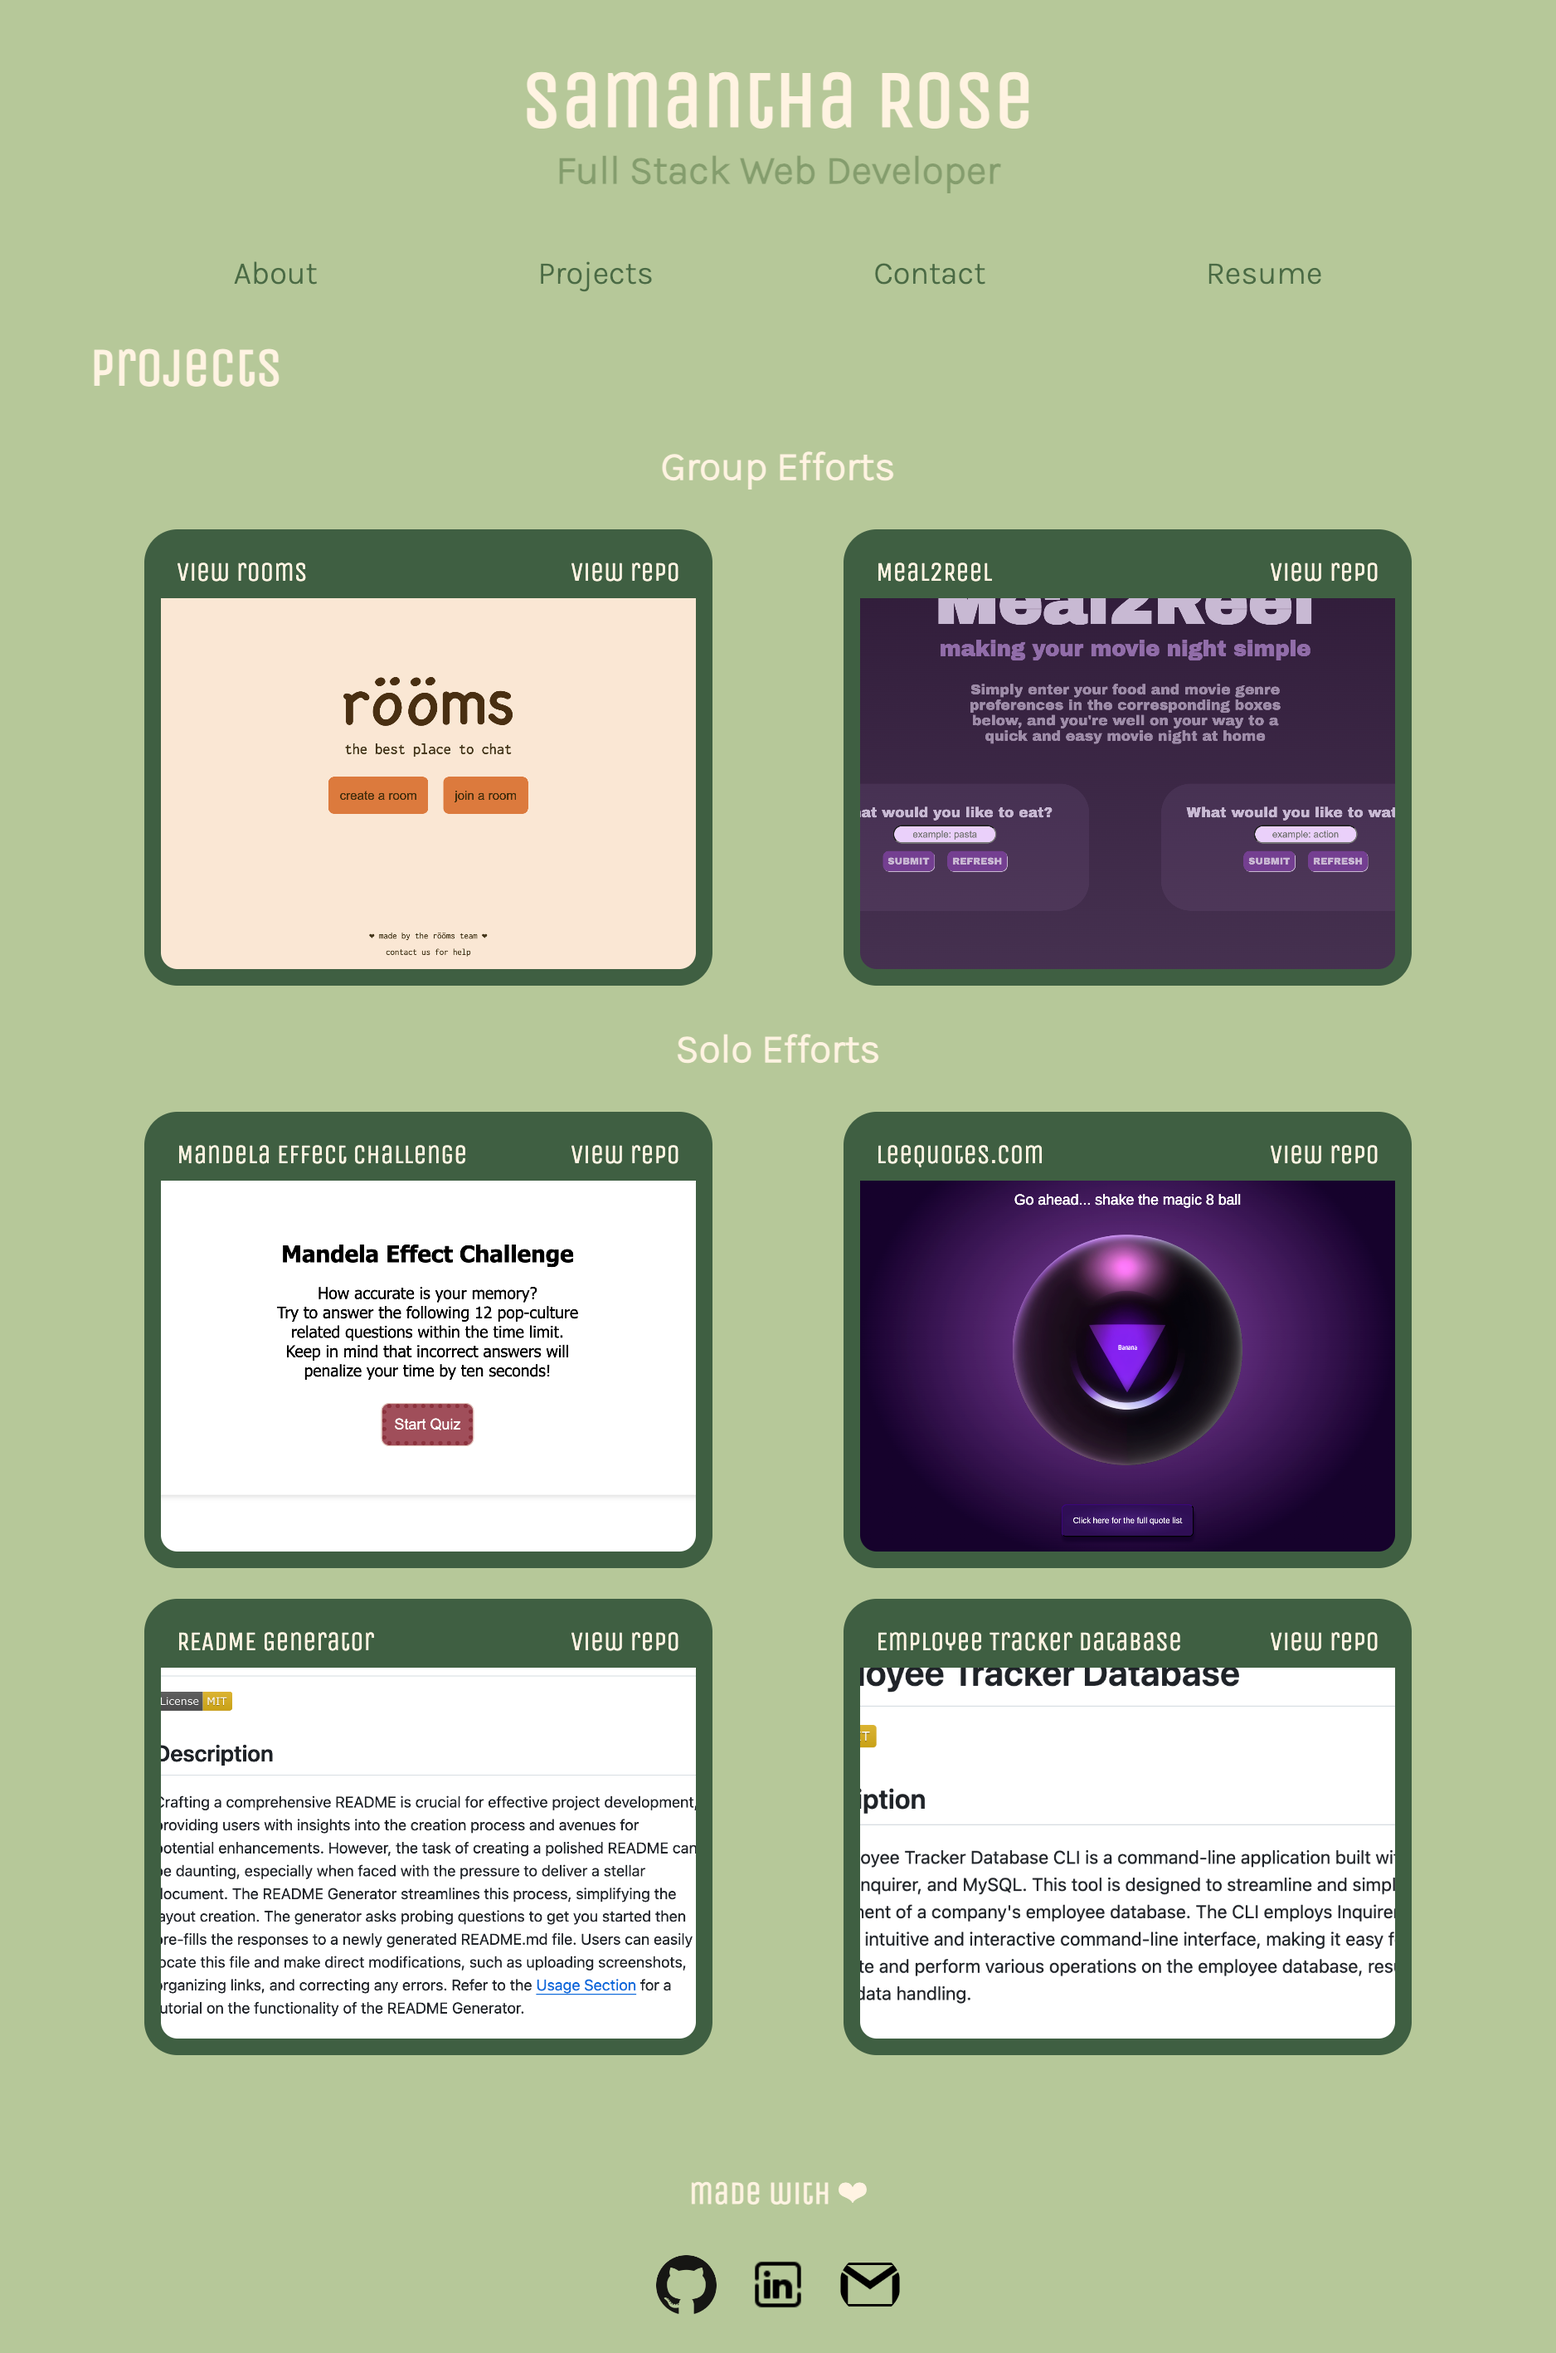
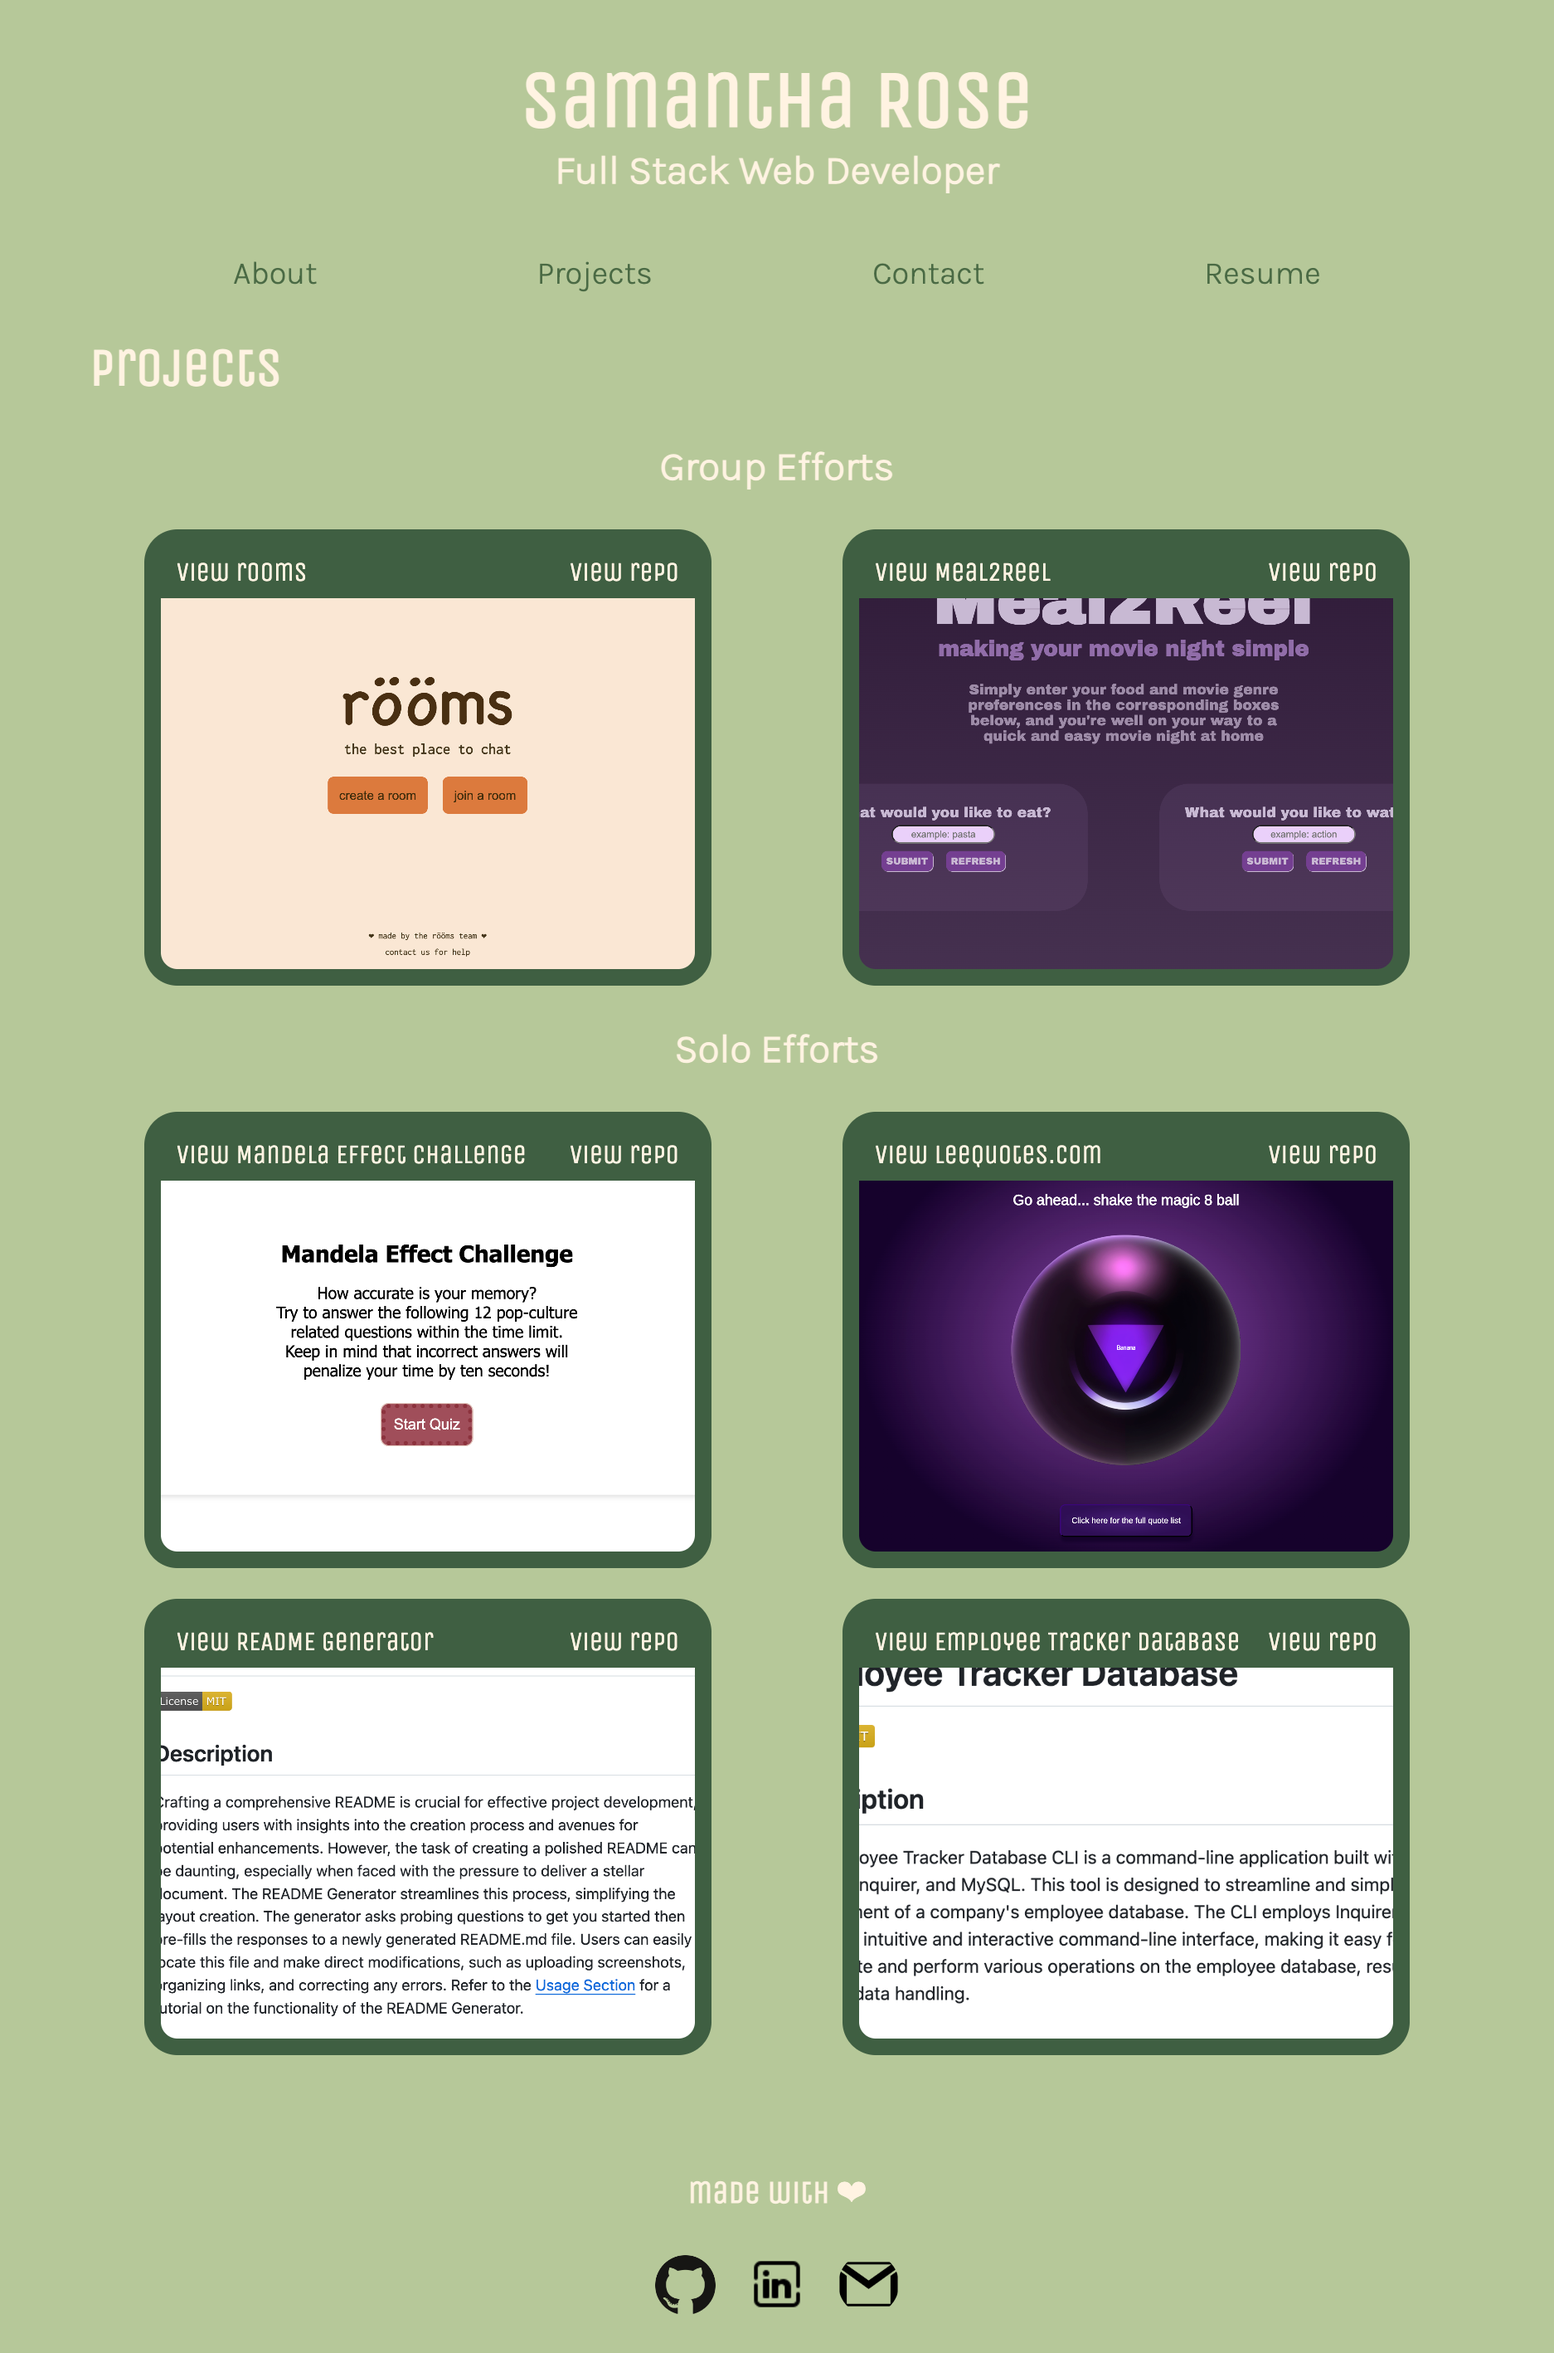
Correct project titles

diff --git a/src/pages/Projects.jsx b/src/pages/Projects.jsx
@@ -13,7 +13,7 @@ export default function Projects() {
         </div>
         <div id='group-img-2'>
           <div className='img-title'>
-            <a href="https://samanthashleyrose.github.io/Meal2Reel/">Meal2Reel</a>
+            <a href="https://samanthashleyrose.github.io/Meal2Reel/">view Meal2Reel</a>
             <a href="https://github.com/samanthashleyrose/Meal2Reel">view repo</a>
           </div>
         </div>
@@ -22,13 +22,13 @@ export default function Projects() {
       <div className="solo-img-row-1">
         <div id='solo-img-1'>
           <div className='img-title'>
-            <a href="https://samanthashleyrose.github.io/Mandela-Effect-Challenge/">Mandela Effect Challenge</a>
+            <a href="https://samanthashleyrose.github.io/Mandela-Effect-Challenge/">view Mandela Effect Challenge</a>
             <a href="https://github.com/samanthashleyrose/Mandela-Effect-Challenge">view repo</a>
           </div>
         </div>
         <div id='solo-img-2'>
           <div className='img-title'>
-            <a href="https://samanthashleyrose.github.io/LeeQuotes.com/">LeeQuotes.com</a>
+            <a href="https://samanthashleyrose.github.io/LeeQuotes.com/">view LeeQuotes.com</a>
             <a href="https://github.com/samanthashleyrose/LeeQuotes.com">view repo</a>
           </div>
         </div>
@@ -38,13 +38,13 @@ export default function Projects() {
       <div className="solo-img-row-2">
         <div id='solo-img-3'>
           <div className='img-title'>
-            <a href="https://github.com/samanthashleyrose/README-generator">README Generator</a>
+            <a href="https://github.com/samanthashleyrose/README-generator">view README Generator</a>
             <a href="https://github.com/samanthashleyrose/README-generator">view repo</a>
           </div>
         </div>
         <div id='solo-img-4'>
           <div className='img-title'>
-            <a href="https://github.com/samanthashleyrose/Employee-Tracker">Employee Tracker Database</a>
+            <a href="https://github.com/samanthashleyrose/Employee-Tracker">view Employee Tracker Database</a>
             <a href="https://github.com/samanthashleyrose/Employee-Tracker">view repo</a>
           </div>
         </div>
